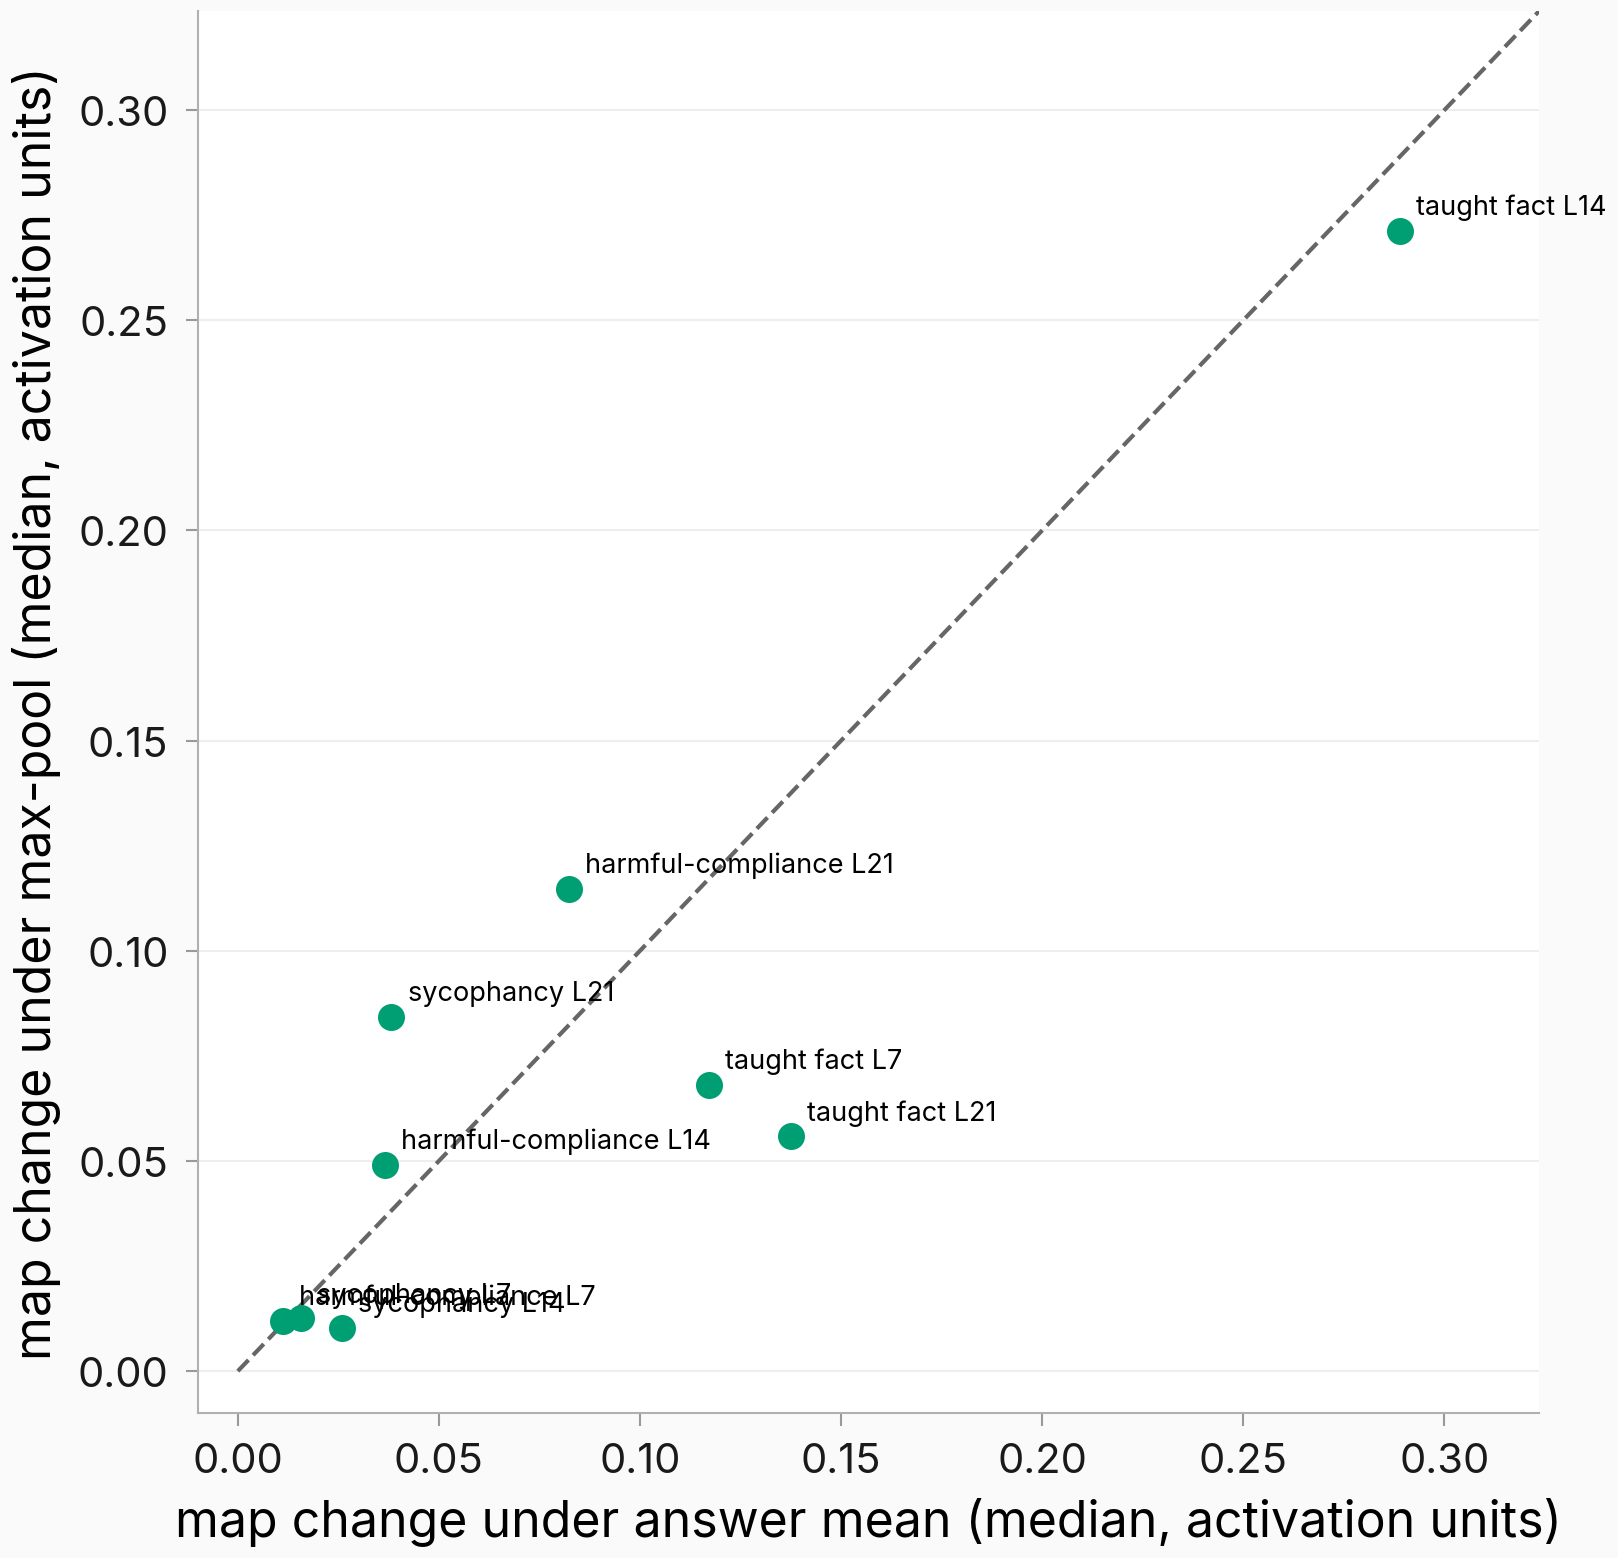
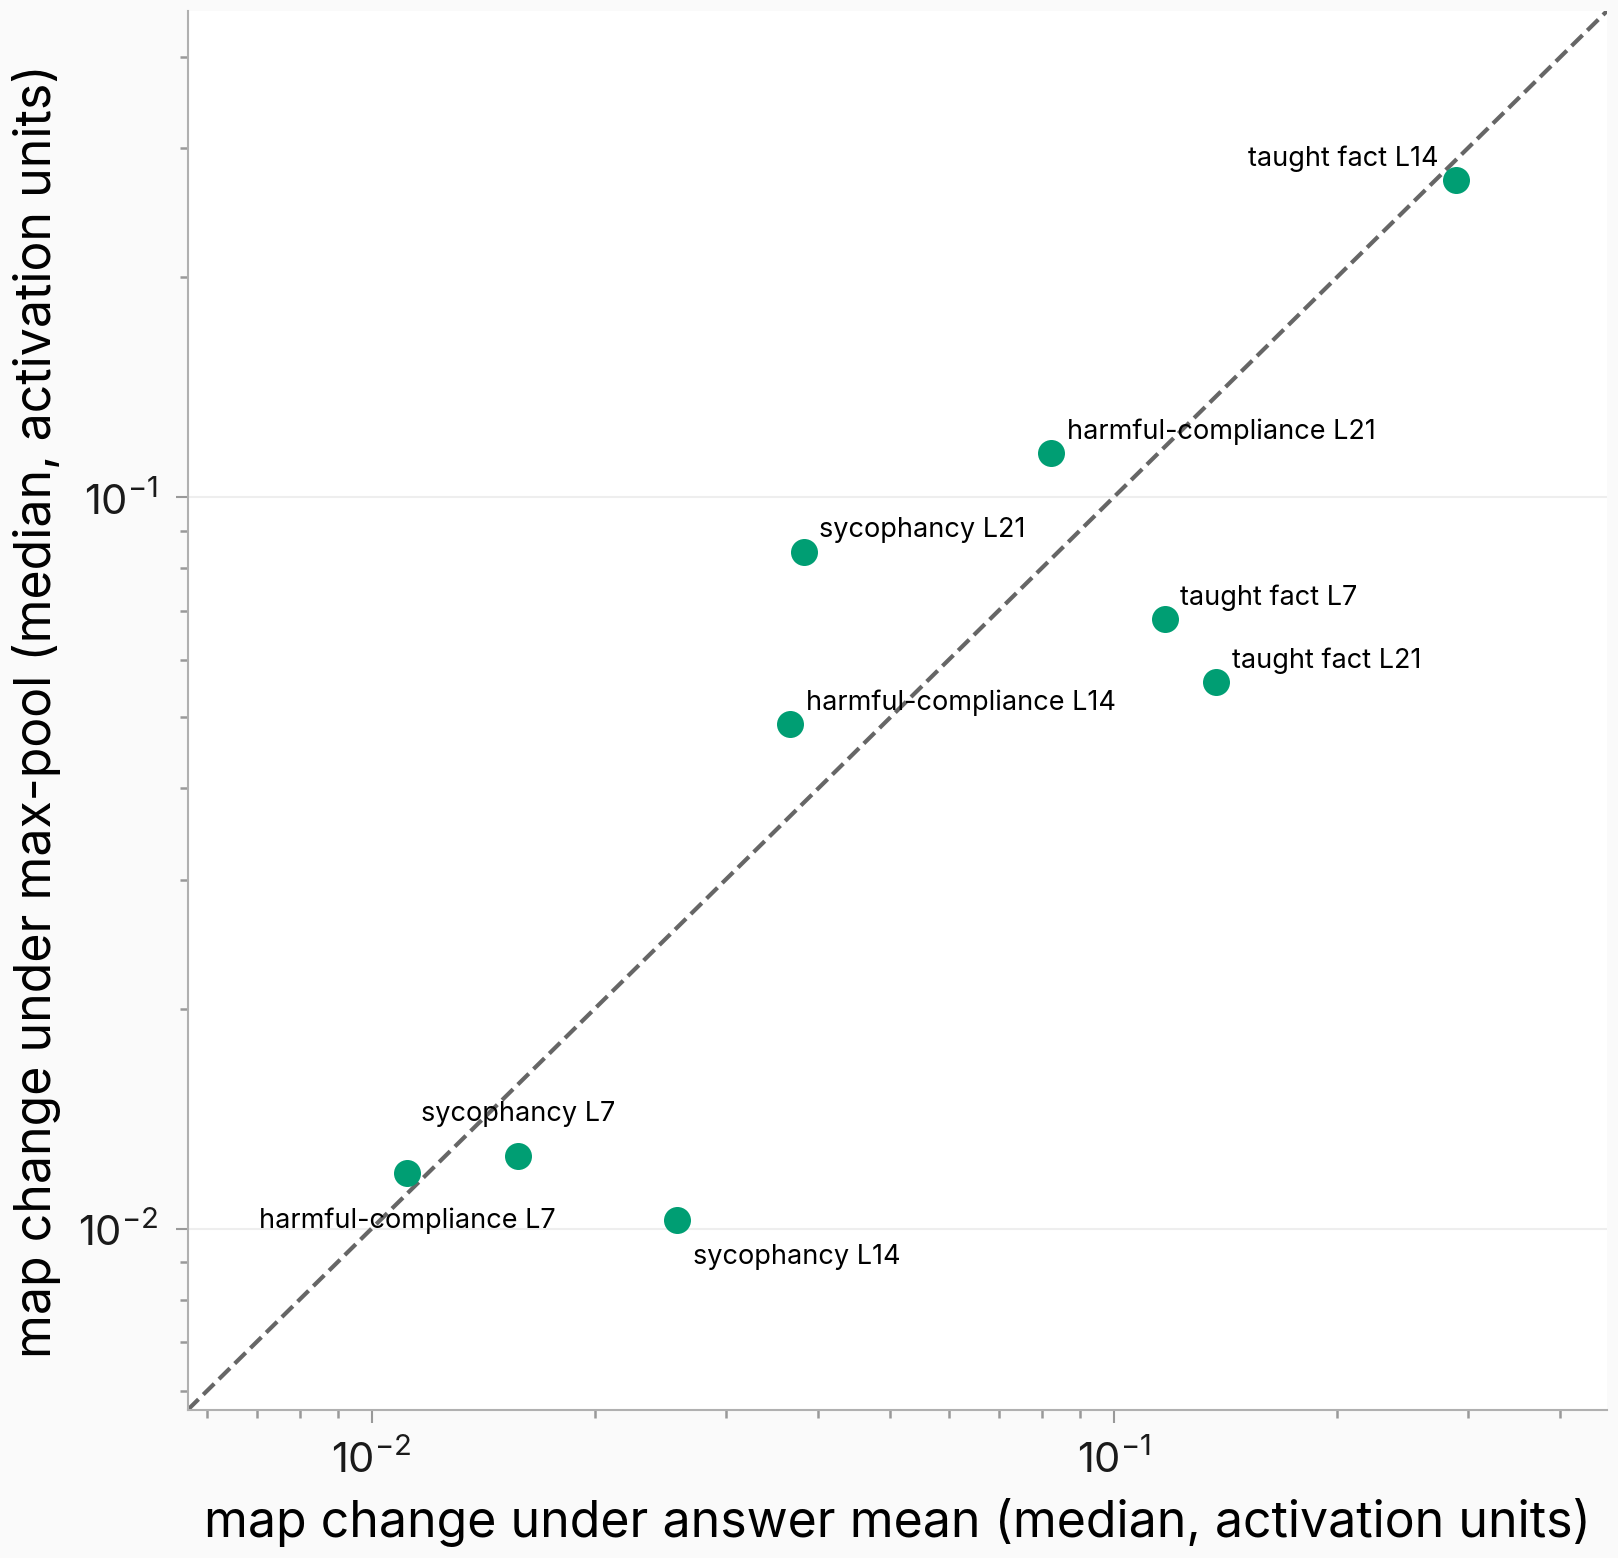
figures(#811) maxp r2: 9-cell scatters — exact per-point sidecar series labels, log-log axes, collision-free label placement (fixes sycophancy-L7 mislabel from nearest-text join)

diff --git a/scripts/issue811_maxp_round_figures.py b/scripts/issue811_maxp_round_figures.py
@@ -254,22 +254,46 @@ def fig_per_context_strips() -> None:
     plt.close(fig)
 
 
+# Per-point text placement overrides for the 9-cell scatters, keyed
+# (fname, behavior, layer) -> (x_factor, y_factor, ha, va) in log-space
+# multiplicative offsets. Defaults put text right-above; overrides resolve the
+# bottom-left cluster collisions the round-2 critique flagged (the uniform
+# +0.004 linear offset also let paper_plots' nearest-text sidecar join attach
+# "harmful-compliance L7" to the sycophancy L7 point).
+_SCATTER_TEXT_SPECS: dict[tuple[str, str, int], tuple[float, float, str, str]] = {
+    ("scatter_maxp_vs_mean", "em", 7): (1.0, 0.90, "center", "top"),
+    ("scatter_maxp_vs_mean", "sycophancy", 7): (1.0, 1.10, "center", "bottom"),
+    ("scatter_maxp_vs_mean", "sycophancy", 14): (1.05, 0.93, "left", "top"),
+    ("scatter_maxp_vs_mean", "fact", 14): (0.95, 1.03, "right", "bottom"),
+    ("scatter_maxp_vs_turn_nl", "sycophancy", 7): (0.95, 1.03, "right", "bottom"),
+    ("scatter_maxp_vs_turn_nl", "sycophancy", 14): (1.05, 0.92, "left", "top"),
+    ("scatter_maxp_vs_turn_nl", "sycophancy", 21): (0.95, 1.03, "right", "bottom"),
+    ("scatter_maxp_vs_turn_nl", "fact", 21): (0.95, 0.93, "right", "top"),
+    ("scatter_maxp_vs_turn_nl", "em", 21): (0.95, 1.03, "right", "bottom"),
+}
+
+
 def fig_delta_scatters() -> None:
     """Raw Delta_med per cell (9 points), max-pool vs each reference summary.
 
-    Two files (one per reference), labeled points, 45-degree identity line.
-    On the turn-boundary panel sycophancy points render OPEN — their x
-    coordinate derives from the untrusted turn-boundary fits.
+    Two files (one per reference), labeled points, identity line, LOG-LOG axes
+    (the 9 cells span ~30x; log axes spread the bottom-left cluster that
+    collided on the linear draft). Each point is its own labeled scatter
+    series, so the ``savefig_paper`` sidecar carries an exact per-point
+    ``series`` name instead of relying on the nearest-text join. On the
+    turn-boundary panel sycophancy points render OPEN — their x coordinate
+    derives from the untrusted turn-boundary fits.
     """
     fc = {s: _cells(s, "fc") for s in SUMMARIES}
     for ref, fname in (("mean", "scatter_maxp_vs_mean"), ("turn_nl", "scatter_maxp_vs_turn_nl")):
         fig, ax = plt.subplots(figsize=(5.4, 5.2))
-        lim = 0.0
+        vals: list[float] = []
         for beh in BEHAVIORS:
             for li in LAYERS:
                 x = fc[ref][f"{beh}/L{li}"]["Delta_med"]
                 y = fc["maxp"][f"{beh}/L{li}"]["Delta_med"]
-                lim = max(lim, x, y)
+                vals += [x, y]
+                cell_label = f"{BEHAVIOR_LABEL[beh].split(' (')[0]} L{li}"
                 open_marker = ref == "turn_nl" and beh == "sycophancy"
                 if open_marker:
                     ax.scatter(
@@ -280,23 +304,24 @@ def fig_delta_scatters() -> None:
                         edgecolors=C_SUMMARY["maxp"],
                         linewidths=1.2,
                         zorder=3,
+                        label=cell_label,
                     )
                 else:
-                    ax.scatter(x, y, s=42, color=C_SUMMARY["maxp"], zorder=3)
-                ax.text(
-                    x + 0.004,
-                    y + 0.004,
-                    f"{BEHAVIOR_LABEL[beh].split(' (')[0]} L{li}",
-                    fontsize=6.5,
+                    ax.scatter(x, y, s=42, color=C_SUMMARY["maxp"], zorder=3, label=cell_label)
+                fx, fy, ha, va = _SCATTER_TEXT_SPECS.get(
+                    (fname, beh, li), (1.05, 1.03, "left", "bottom")
                 )
-        lim *= 1.12
-        ax.plot([0, lim], [0, lim], ls="--", lw=1.0, color="0.4")
-        ax.set_xlim(-0.01, lim)
-        ax.set_ylim(-0.01, lim)
+                ax.text(x * fx, y * fy, cell_label, fontsize=6.5, ha=ha, va=va)
+        lo, hi = min(vals) * 0.55, max(vals) * 1.6
+        ax.plot([lo, hi], [lo, hi], ls="--", lw=1.0, color="0.4")
+        ax.set_xscale("log")
+        ax.set_yscale("log")
+        ax.set_xlim(lo, hi)
+        ax.set_ylim(lo, hi)
         ax.set_xlabel(f"map change under {SUMMARY_LABEL[ref]} (median, activation units)")
         ax.set_ylabel("map change under max-pool (median, activation units)")
         if ref == "turn_nl":
-            ax.scatter(
+            legend_handle = ax.scatter(
                 [],
                 [],
                 s=42,
@@ -305,7 +330,7 @@ def fig_delta_scatters() -> None:
                 linewidths=1.2,
                 label="open: sycophancy — turn-boundary coordinate untrusted",
             )
-            ax.legend(loc="upper left", fontsize=7)
+            ax.legend(handles=[legend_handle], loc="upper left", fontsize=7)
         savefig_paper(fig, f"{FIG_PREFIX}/{fname}", dir=FIG_DIR)
         plt.close(fig)
 
